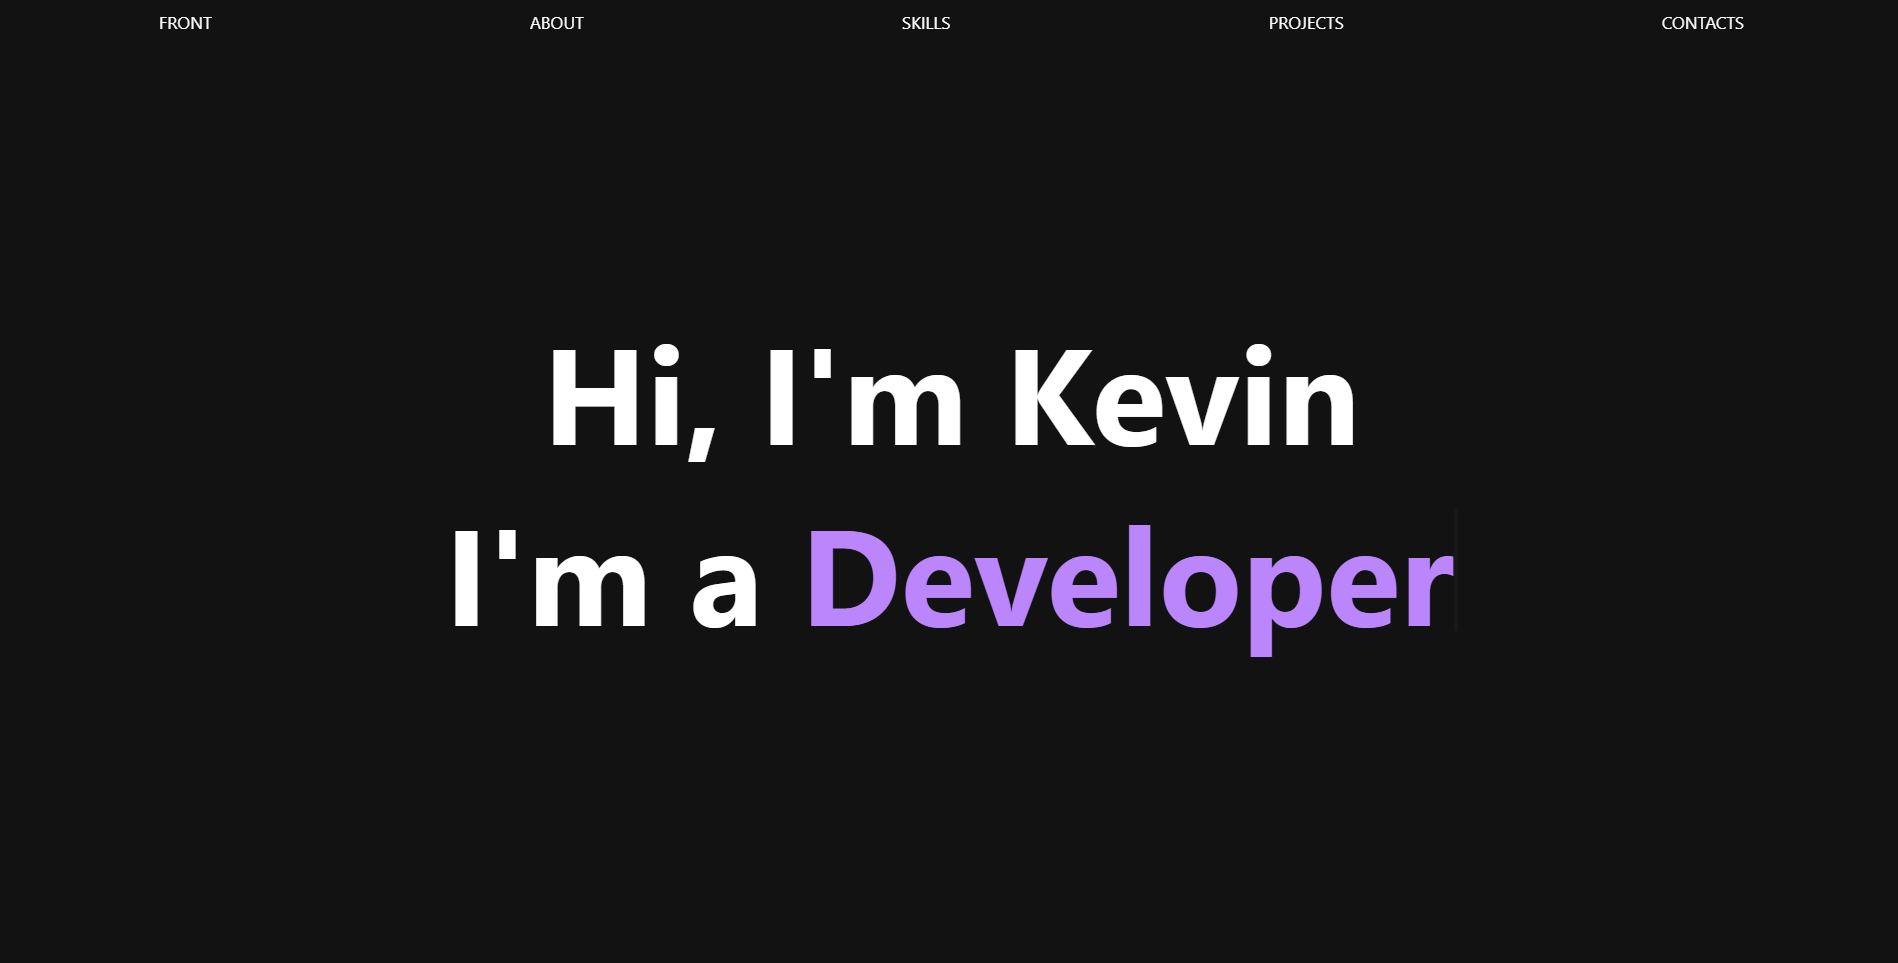
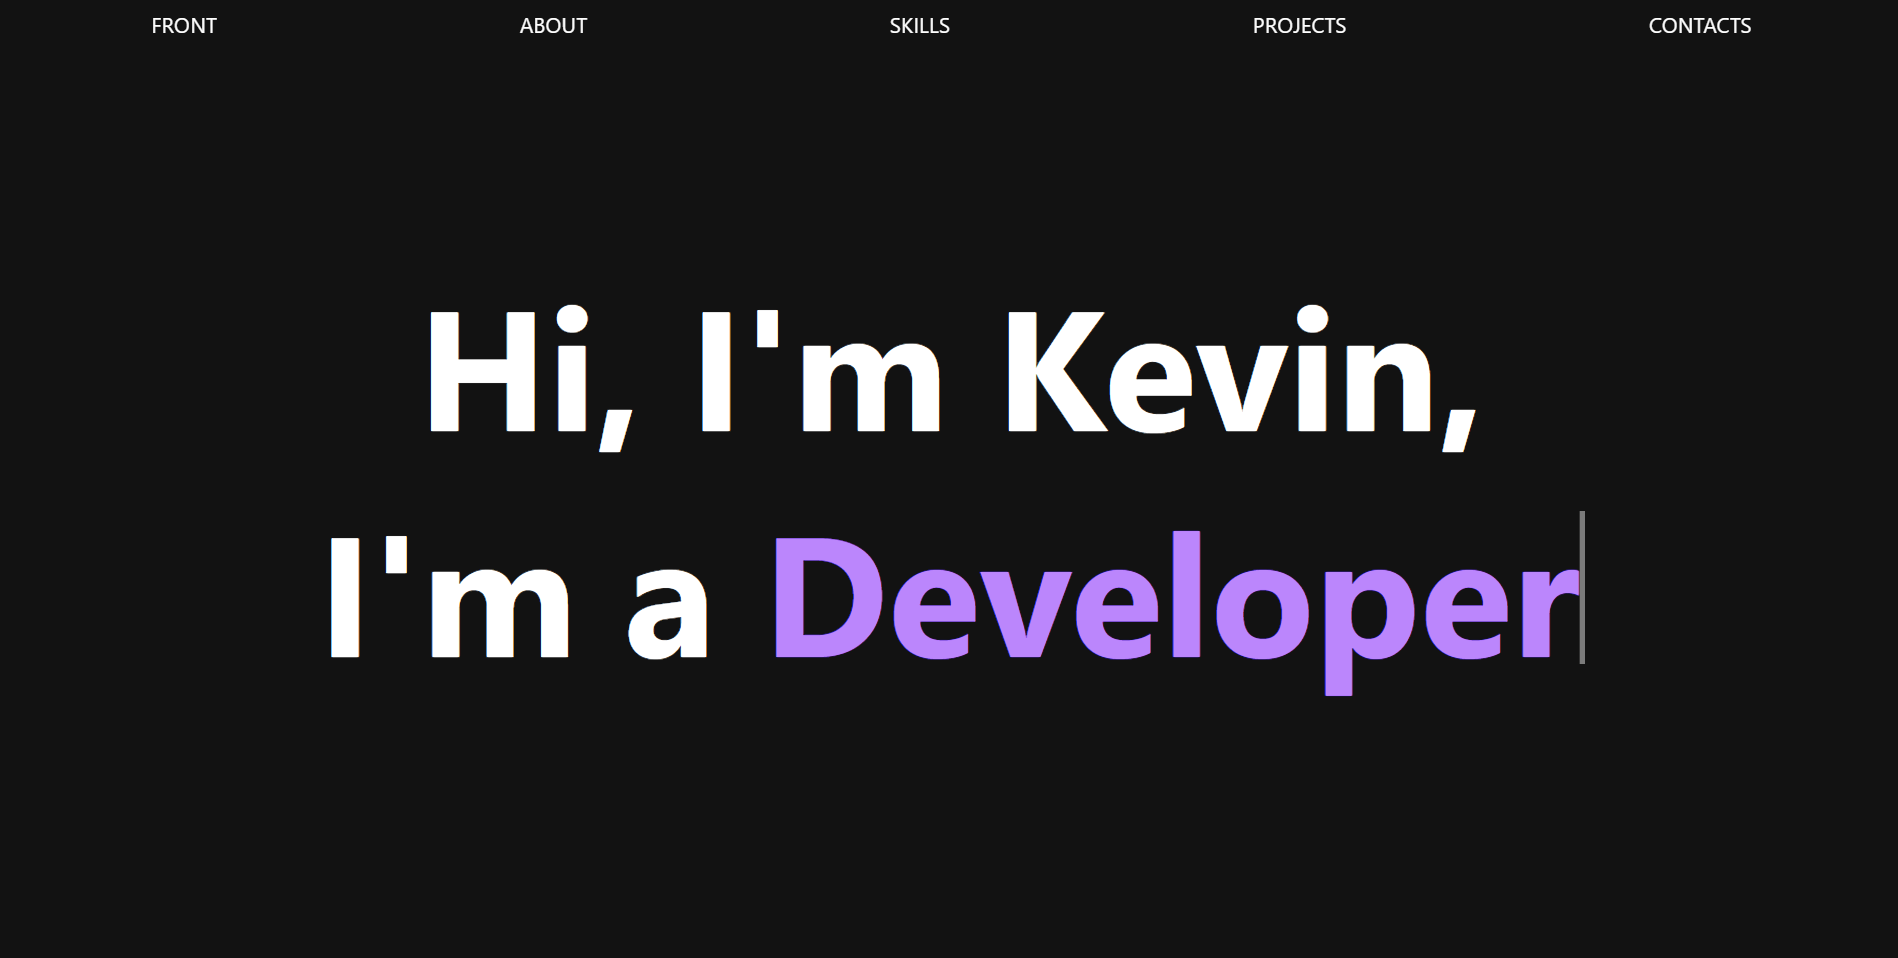
Refactored, Small Changes Made

diff --git a/index.html b/index.html
@@ -36,7 +36,7 @@
             </ul>
         </div>
         <div class="front">
-            <h1>Hi, I'm Kevin<br>I'm a <b class="text"></b></h1>
+            <h1>Hi, I'm Kevin,<br>I'm a <b class="text"></b></h1>
         </div>
         <div class="about ">
             <h2>ABOUT</h2>
@@ -105,7 +105,7 @@
             </ul>
         </div>
         <div class="bottom">
-            <p>ⓒ 2021 Kevin.P, All rights reserved.<br>Material Design, Dark Theme<br><b>This Website is made of 100% Vanilla HTML, CSS, and Javascript</b></p>
+            <p>ⓒ 2021 Kevin.P, All rights reserved.<br>Material Design, Dark Theme<br>This Website is made <b>ONLY</b> with <b>HTML, CSS</b>, and <b>Vanilla Javascript</b></p>
         </div>
 
         <!--Implement Javascript-->

diff --git a/index.js b/index.js
@@ -3,7 +3,7 @@ const content = "Developer";
 const text = document.querySelector('.text');
 const navigators = document.querySelectorAll('.navigator');
 const saElementList = document.querySelectorAll('.sa');
-let saTriggerMargin;
+let saTriggerMargin = 100;
 
 var element_to_scroll;
 let index = 0;
@@ -45,7 +45,6 @@ function scroll_to(element_to_scroll) {
 
 function saFunc() {
     for(const element of saElementList) {
-        saTriggerMargin = element.offsetHeight / 3;
         if(!element.classList.contains('show')) {
             if(window.innerHeight > element.getBoundingClientRect().top + saTriggerMargin) {
                 element.classList.add('show');

diff --git a/index.css b/index.css
@@ -50,7 +50,6 @@ ul {
 .navigation {
     position: fixed;
     width: 100%;
-    z-index: 3;
 }
 
 .navigation_list {
@@ -97,7 +96,6 @@ ul {
 
 /* SKILLS */
 .skills {
-    height: 90%;
     margin-top: 10%;
     margin-left: 20%;
     margin-right: 20%;
